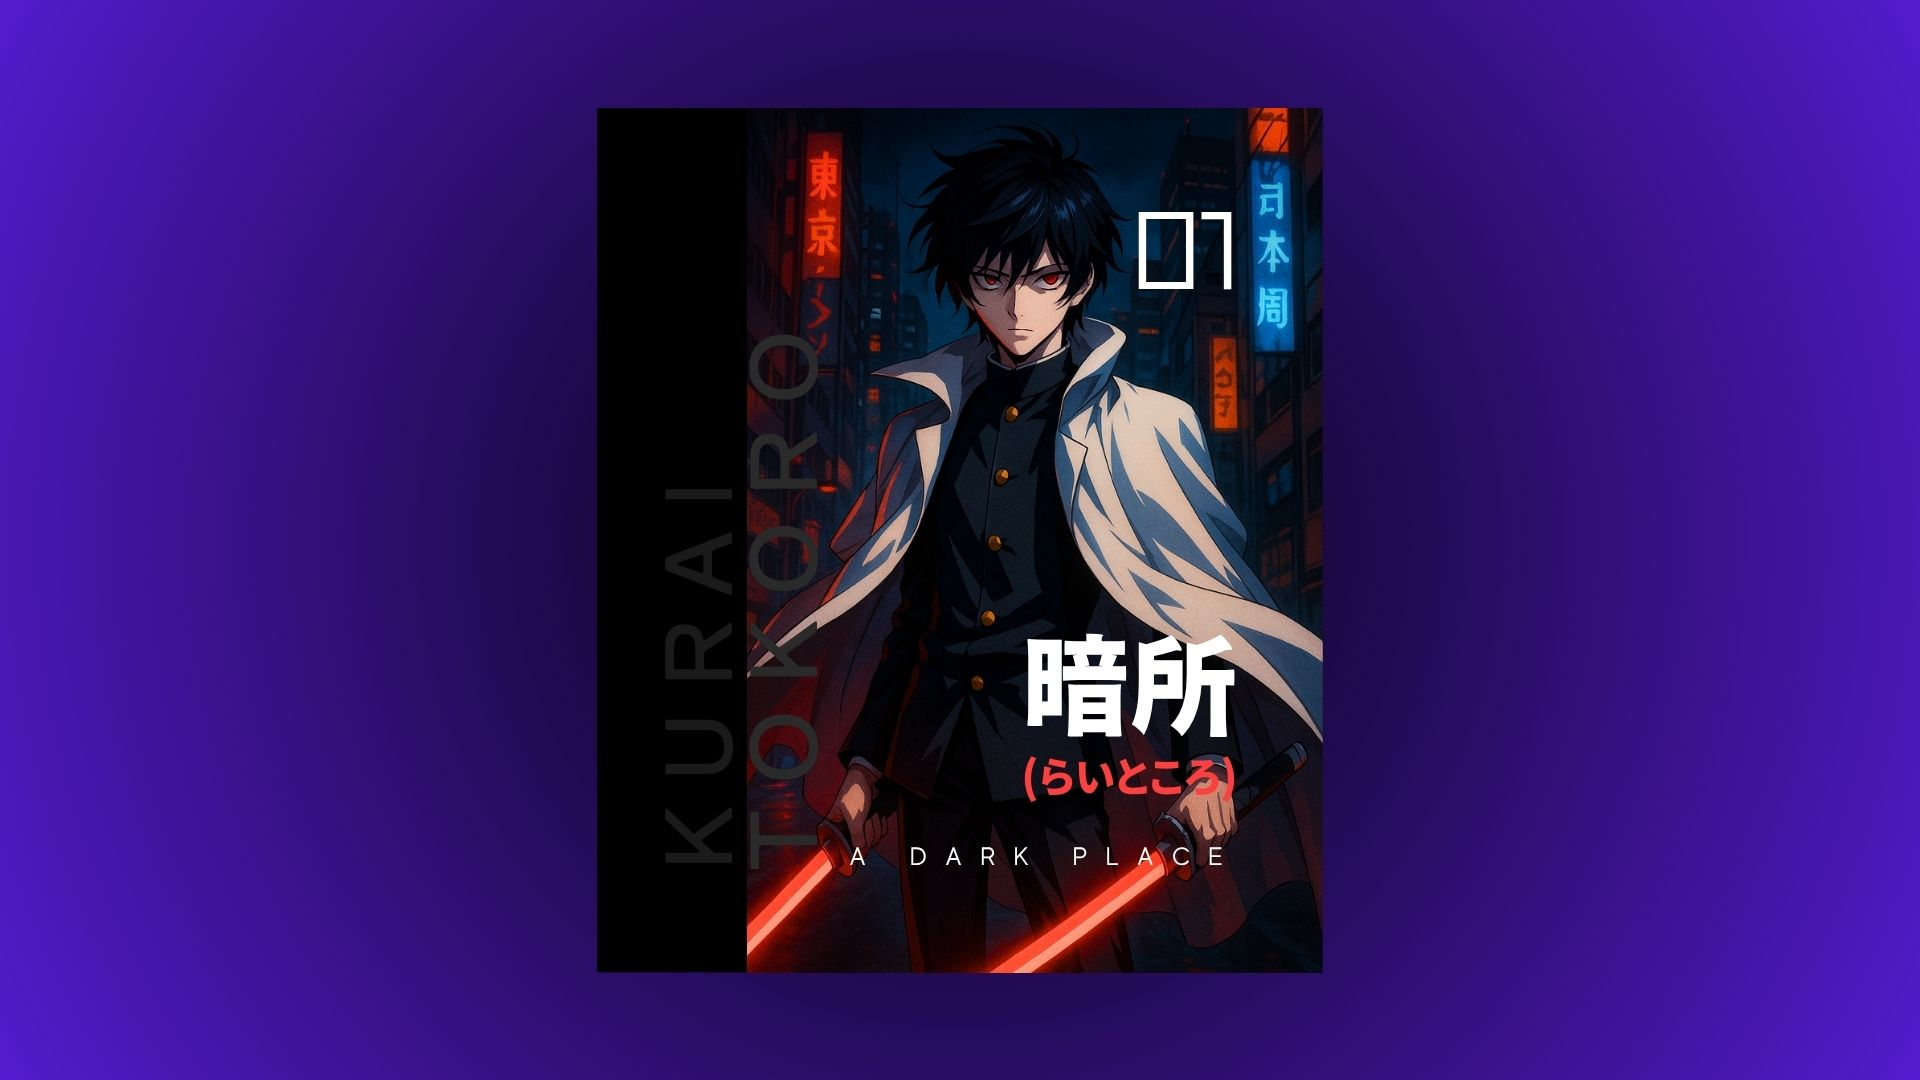
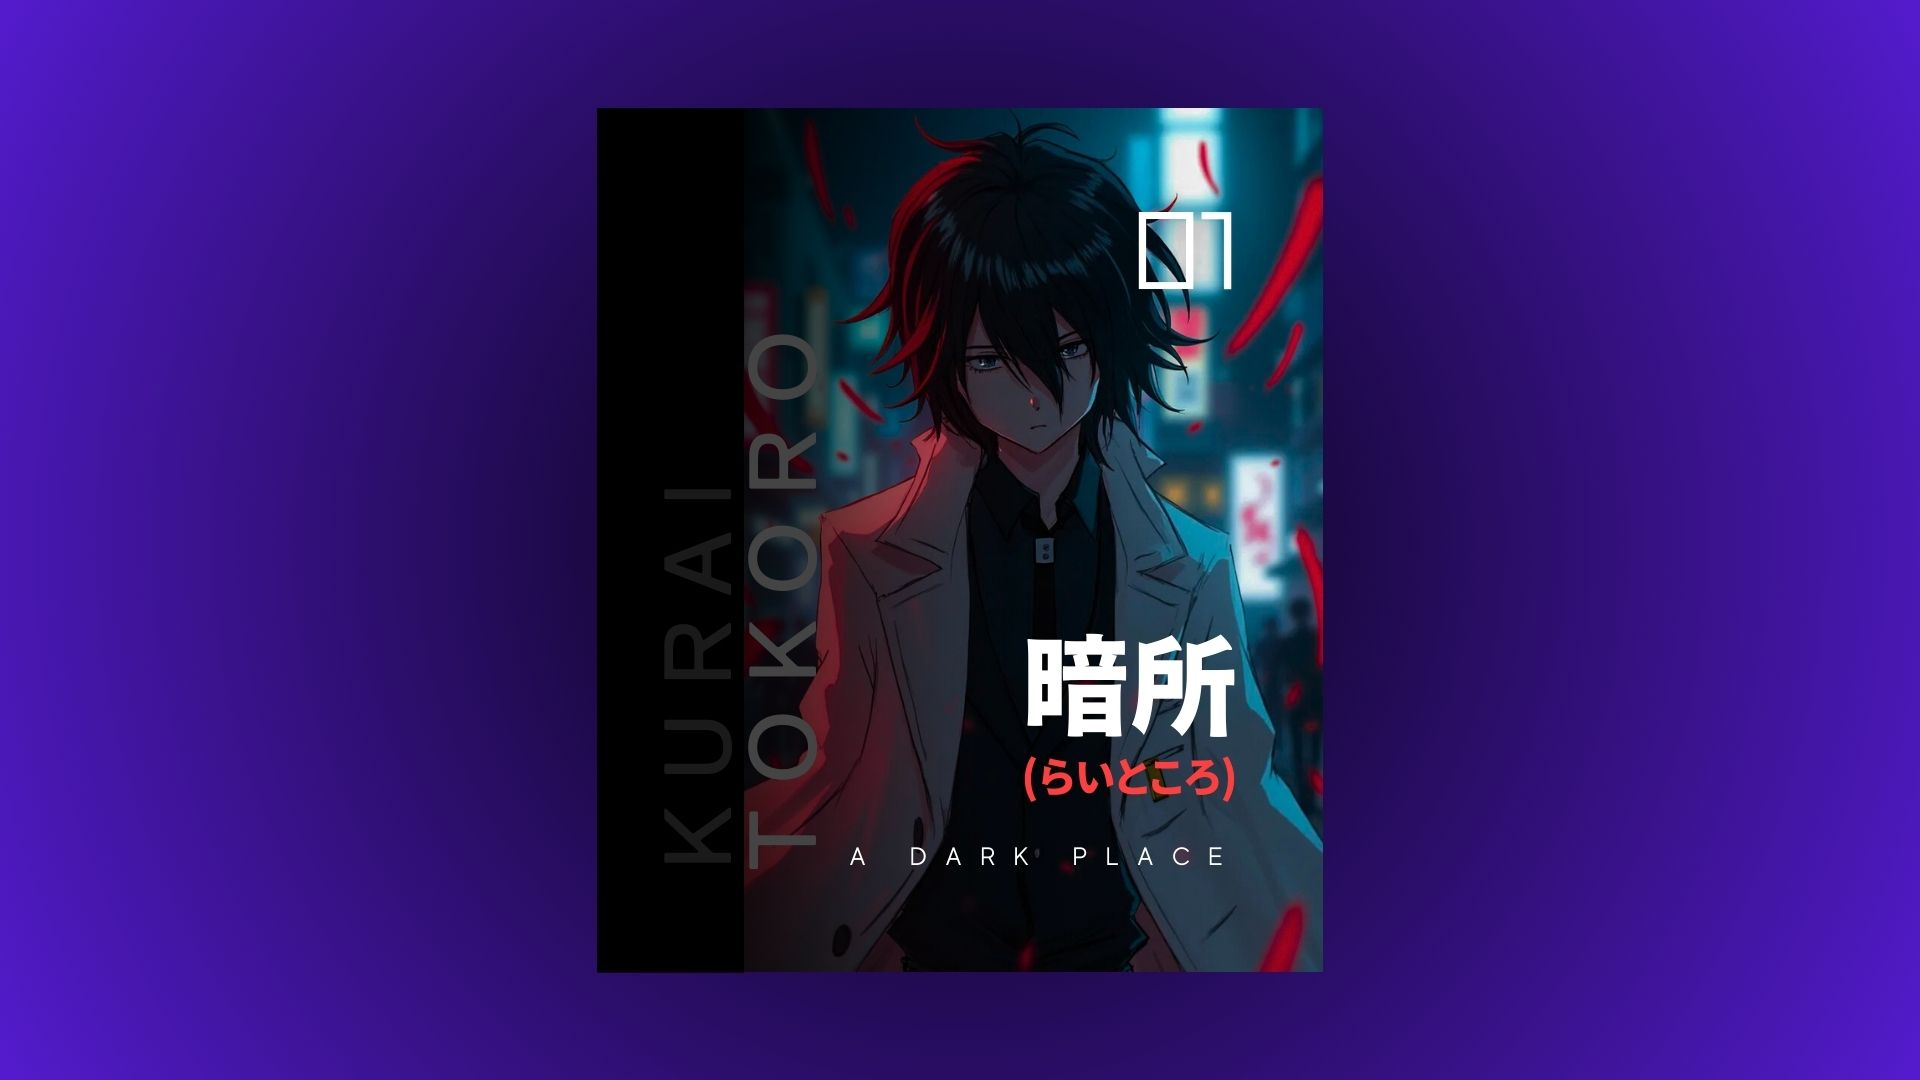
project cards

Changed region(s): [[0.375, 0.0917, 0.6875, 0.9167]]

diff --git a/ben-sandivar-site/homesplits/projects.html b/ben-sandivar-site/homesplits/projects.html
@@ -51,7 +51,7 @@
 
     <!-- Apps & AI -->
     <div class="project-card" data-tilt data-section="apps-ai">
-      <img src="assets/projects/Emma.png" alt="Emma Thumbnail" />
+      <img src="assets/projects/Emma.jpg" alt="Emma Thumbnail" />
       <div class="card-content">
         <h4>Emma</h4>
         <p>Artificial Human prototype with full persona, history, relationships, and cardiology expertise.</p>
@@ -67,7 +67,7 @@
     </div>
 
     <div class="project-card" data-tilt data-section="apps-ai">
-      <img src="assets/projects/ZENread.png" alt="ZENread App Thumbnail" />
+      <img src="assets/projects/ZEN.jpg" alt="ZENread App Thumbnail" />
       <div class="card-content">
         <h4>ZENread App</h4>
         <p>Reading app turning dense text into manageable, engaging, task-based segments.</p>
@@ -83,7 +83,7 @@
     </div>
 
     <div class="project-card" data-tilt data-section="apps-ai">
-      <img src="assets/projects/Cabin.png" alt="Cabin Thumbnail" />
+      <img src="assets/projects/Cabin.jpg" alt="Cabin Thumbnail" />
       <div class="card-content">
         <h4>Cabin</h4>
         <p>Author’s writing management app inspired by a creative retreat “cabin in the woods.”</p>
@@ -91,7 +91,7 @@
     </div>
 
     <div class="project-card" data-tilt data-section="apps-ai">
-      <img src="assets/projects/Pearl.png" alt="Pearl Thumbnail" />
+      <img src="assets/projects/Pearl.jpg" alt="Pearl Thumbnail" />
       <div class="card-content">
         <h4>Pearl</h4>
         <p>Voice-controlled photo editing with intuitive UI for non-professional creative users.</p>
@@ -100,7 +100,7 @@
 
     <!-- Music -->
     <div class="project-card" data-tilt data-section="music">
-      <img src="https://source.unsplash.com/600x400/?abstract,technology&sig=12" alt="Gente Como Tú Thumbnail" />
+      <img src="Gente Como Tú.jpg" alt="Gente Como Tú Thumbnail" />
       <div class="card-content">
         <h4>Gente Como Tú</h4>
         <p>An original pop song that explores themes of connection and identity in the modern world.</p>
@@ -140,7 +140,7 @@
     </div>
 
     <div class="project-card" data-tilt data-section="music">
-      <img src="https://source.unsplash.com/600x400/?abstract,technology&sig=21" alt="Poetry Collection Thumbnail" />
+      <img src="assets/projects/Myth of Rebirth.jpg" alt="Poetry Collection Thumbnail" />
       <div class="card-content">
         <h4>The Myth of Rebirth</h4>
         <p>A collection of philosophical songs exploring a minimal writing and production style.</p>

diff --git a/ben-sandivar-site/homesplits/hero.html b/ben-sandivar-site/homesplits/hero.html
@@ -70,7 +70,7 @@
   <!-- Text content -->
   <div class="hero-content">
     <h1>Ben Sandivar</h1>
-    <p>Transforming ideas into stunning digital solutions.</p>
+    <p>Transformative Ideas.</p>
     <a href="#projects" class="scroll-arrow">→ View My Work</a>
   </div>
 
